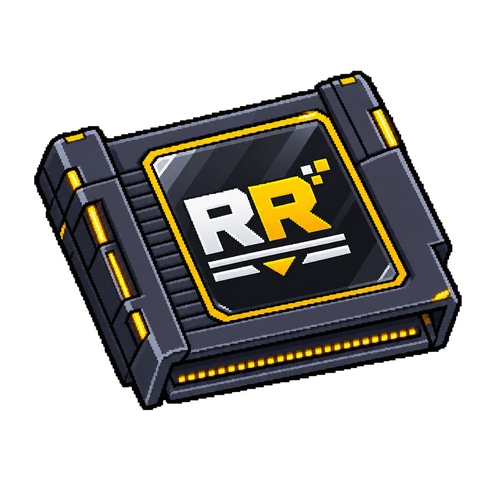
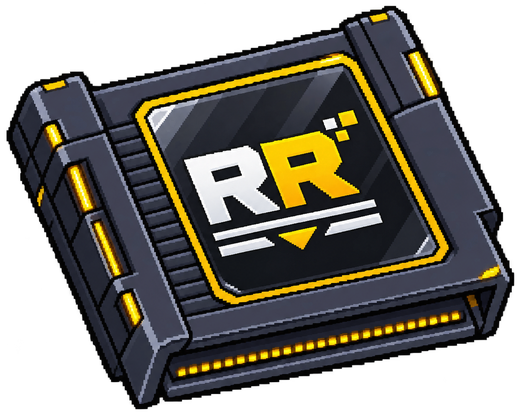
README: the RR cartridge cropped to its own outline and shown a little larger, closer to the title

diff --git a/README.md b/README.md
@@ -1,5 +1,5 @@
 <p align="center">
-  <img src="MEDIAS/RetroRecomp_cartridge_rr.png?v=2d587a5c09b8" alt="RetroRecomp: the RR cartridge" width="200">
+  <img src="MEDIAS/RetroRecomp_cartridge_rr.png?v=3416f16e6a63" alt="RetroRecomp: the RR cartridge" width="240">
 </p>
 
 <h1 align="center">RetroRecomp</h1>
